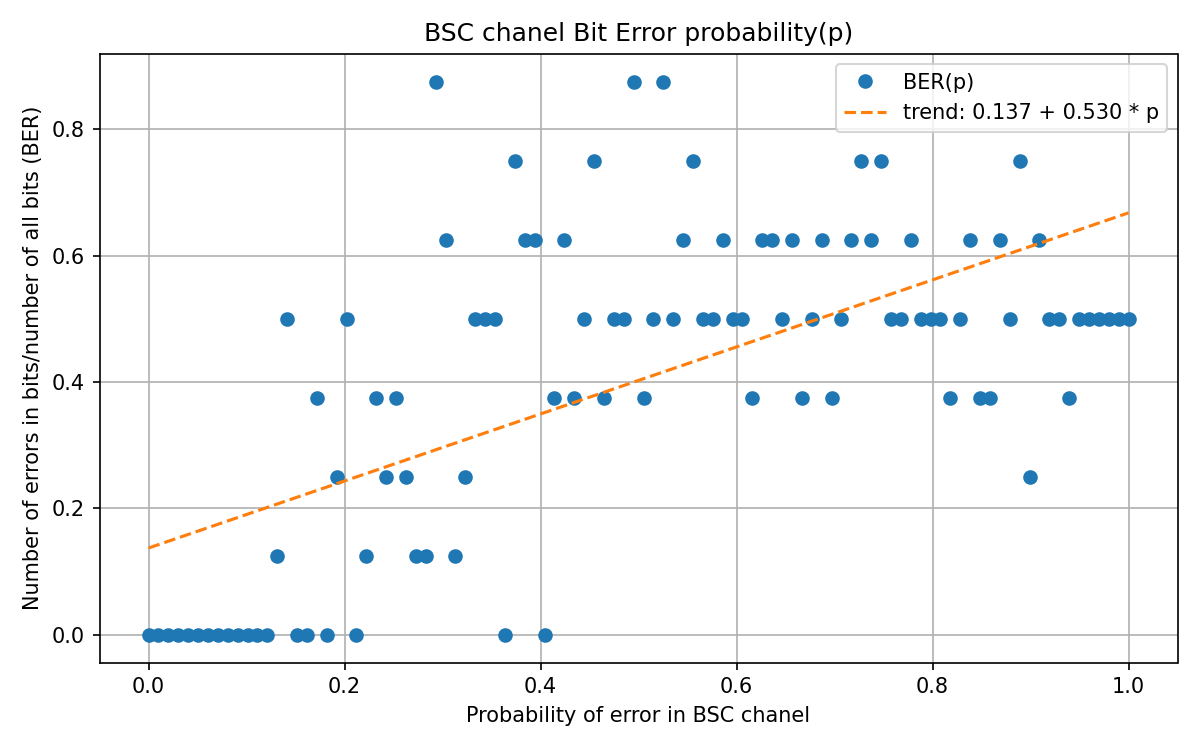
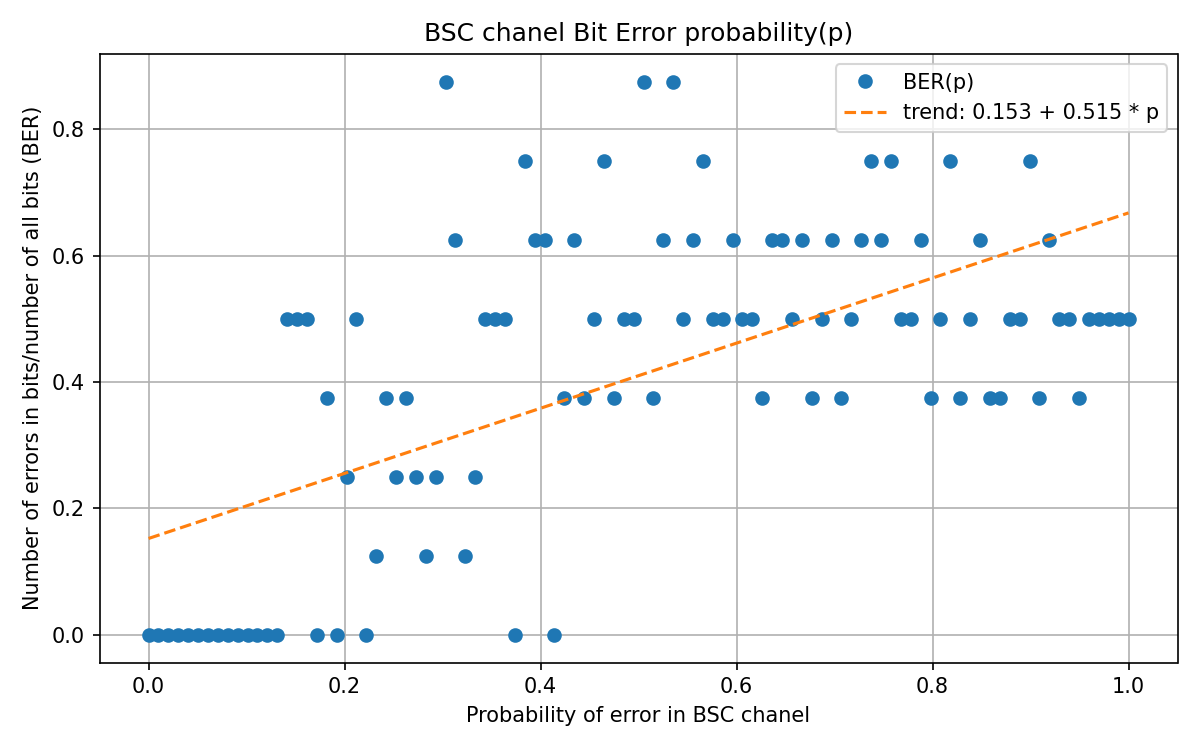
Modified modified: ber.csv modified: ber_plot.png modified: biterbi_bsc_ber_main.cpp

diff --git a/viterbi_bsc_ber_main.cpp b/viterbi_bsc_ber_main.cpp
@@ -37,14 +37,11 @@ int main() {
     ViterbiEncoder encoder(code);
     vector<int> coded = encoder.encode(info, terminate);
 
-    // Прохождение через канал
+    // Подключаем random
     mt19937 rng(4321);
-    float p = 0.15;
-    vector<int> noisy = bsc(p, rng, coded);
 
     // Декодирование информации
     ViterbiDecoder decoder(code);
-    vector<int> decoded = decoder.decode(noisy, terminate);
 
     // ---------------------------------------------------
     // Построение csv-таблицы от множества вероятностей pp
